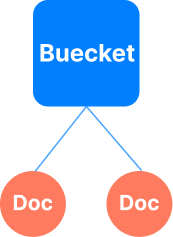
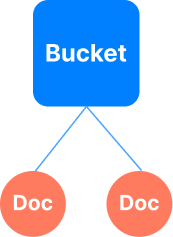
refactor: M5 Bucket 이미지 오탈자 수정 및 dates 속성 내용 개선

Changed region(s): [[0.2312, 0.1772, 0.7803, 0.2658]]

diff --git a/apps/seroi/src/constant/m5/attributes.ts b/apps/seroi/src/constant/m5/attributes.ts
@@ -33,8 +33,8 @@ const attributes = {
   dates: {
     name: 'dates',
     required: false,
-    type: 'Dates: { start: number, end: number }',
-    description: '시작과 끝으로 설정된 시간 입니다.',
+    type: 'Object',
+    description: '날짜 정보들을 Object 형식으로 저장합니다. \n{ start: number(Unix Timestamp), end: number(Unix Timestamp) } 와 같이 활용할 수 있습니다.',
   },
   docOrgCode: {
     name: 'orgCode',
